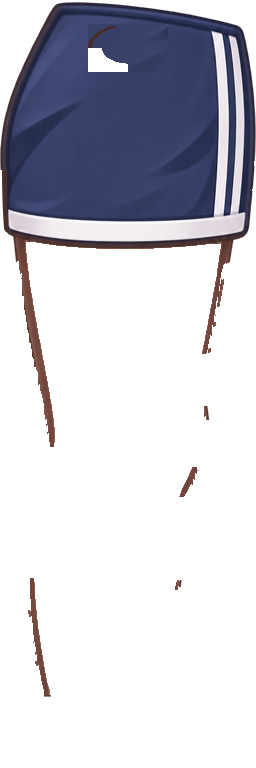
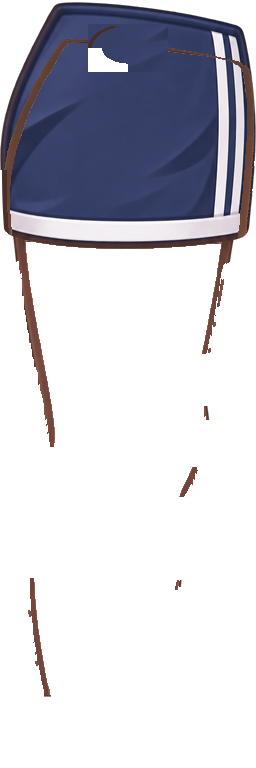
fix: 달리기 상의 떨어진 조각·hoodie 등 외곽선·jogger 끈 끝·하의 다리 외곽선을 정리한다 [S15P31A207-300]
- 달리기 상의 몸통·팔 레이어에서 본체와 떨어진 1000px 미만 덩어리(맨몸 팔 외곽선 조각)를 지운다: singlet 어깨 뒤 곡선, hoodie 목 획.
  singlet 달리기 팔은 소매가 없어 비므로 4번 1% 이상에서 뺀다(spec.EMPTY_RUN_ARM_KEYS).
- hoodie 달리기 몸통 등 쪽 가장자리 4px을 짙은 외곽선으로 칠한다(등판 외곽선 없음).
- jogger 달리기 다리 허리끈 끝(엉덩이 뒤 짙은 점)을 천 색으로 바꾼다.
- 맨몸 다리 외곽선 입히기를 모든 하의로 넓힌다(cargo 주머니 가장자리 톱니).

Changed region(s): [[0.0, 0.0312, 0.3438, 0.3125], [0.9062, 0.0625, 1.0, 0.3125], [0.6562, 0.0625, 0.8125, 0.0938]]

diff --git a/android/core/avatar/src/test/kotlin/com/a207/runkk/app/core/avatar/OutfitCompositeTest.kt b/android/core/avatar/src/test/kotlin/com/a207/runkk/app/core/avatar/OutfitCompositeTest.kt
@@ -80,9 +80,12 @@ class OutfitCompositeTest {
                     OutfitPart.BOTTOM -> AvatarOutfit(bottom = id)
                     OutfitPart.SHOES -> AvatarOutfit(shoes = id)
                 }
-                OutfitSlot.entries.filter { part in it.parts }.forEach { slot ->
-                    assertToneOnlyOnBody(slot, AvatarGender.FEMALE, outfit, "${keys[id]} ${slot.fileName}")
-                }
+                // 소매 없는 상의의 달리기 팔은 비어 있다(파이프라인 spec.EMPTY_RUN_ARM_KEYS, 판정 round3)
+                OutfitSlot.entries.filter { part in it.parts }
+                    .filterNot { keys[id] == "top_lime_singlet" && it == OutfitSlot.RUN_ARM }
+                    .forEach { slot ->
+                        assertToneOnlyOnBody(slot, AvatarGender.FEMALE, outfit, "${keys[id]} ${slot.fileName}")
+                    }
             }
         }
     }

diff --git a/android/core/avatar/src/test/kotlin/com/a207/runkk/app/core/avatar/OutfitAssetSpecTest.kt b/android/core/avatar/src/test/kotlin/com/a207/runkk/app/core/avatar/OutfitAssetSpecTest.kt
@@ -78,7 +78,9 @@ class OutfitAssetSpecTest {
                 check(on(allowed, x, y)) { "3번 금지 영역 ($x, $y) ${file.path} $gender" }
             }
         }
-        assertTrue(drawn >= image.width * image.height / 100, "4번 1% 이상 ${file.path}")
+        // 소매 없는 상의의 달리기 팔은 비어 있다(파이프라인 spec.EMPTY_RUN_ARM_KEYS, 판정 round3)
+        val emptyOk = file.parentFile?.name == "top_lime_singlet" && "run_arm" in file.name
+        assertTrue(emptyOk || drawn >= image.width * image.height / 100, "4번 1% 이상 ${file.path}")
         listOf(image, allowed, uv).forEach(Bitmap::recycle)
     }
 

diff --git a/android/core/avatar/tools/outfit-pipeline/outfit_pipeline/run.py b/android/core/avatar/tools/outfit-pipeline/outfit_pipeline/run.py
@@ -1,0 +1,115 @@
+"""달리기(옆모습) 옷 레이어 마무리(판정 round3 달리기 묶음).
+
+- [drop_loose_pieces]: 옷 본체와 떨어진 작은 덩어리를 지운다. singlet 달리기 팔 레이어에 맨몸 팔 외곽선 조각이
+  세로 선으로 딸려 와 어깨 뒤에 짙은 곡선으로 떠 보였고, hoodie 달리기 몸통 위 끝에도 떨어진 획이 목 곡선으로 보였다.
+- [outline_back]: hoodie 달리기 몸통 등 쪽 가장자리 [EDGE_PX]px 가운데 아직 짙지 않은 곳을 짙은 갈색으로 칠한다. 등판
+  가장자리가 옅어 외곽선이 없어 보였다(달리기 몸통 메시는 옷 가장자리까지 보인다: 픽셀 좌표 부호 렌더 실측).
+- [clean_cord]: jogger 달리기 다리의 허리끈 끝(텍스처 왼쪽 위)이 엉덩이 뒤에 짙은 점으로 떠 보여, 그 칸의 끈 픽셀을 이웃 천 색으로 바꾼다.
+"""
+
+from __future__ import annotations
+
+import numpy as np
+from PIL import Image, ImageFilter
+
+SOLID = 128
+PIECE = 1000
+BACK_KEYS = ("top_winter_hoodie",)
+EDGE_PX = 4
+EDGE_INK = 75  # 이보다 어두운 가장자리는 이미 외곽선
+OUTLINE = (66, 46, 40)
+CORD_BOX = {"bottom_jogger_pants": (0, 95, 30, 155)}  # 허리끈 끝(갈색·금속) 칸(x0, y0, x1, y1)
+
+
+def _morph(mask: np.ndarray, *filters: ImageFilter.Filter) -> np.ndarray:
+    image = Image.fromarray((mask * 255).astype(np.uint8))
+    for f in filters:
+        image = image.filter(f)
+    return np.array(image) > 0
+
+
+def drop_loose_pieces(layer: Image.Image) -> tuple[Image.Image, int]:
+    """옷 본체와 떨어진 작은 덩어리(8방향, [PIECE]px 미만)를 지운다. 달리기 상의 레이어는 본체 하나(5만 픽셀 이상)이고, 그보다 작은
+    덩어리는 딸려 온 맨몸 외곽선 조각·획이다(singlet 달리기 팔은 소매가 없어 조각뿐이다). (레이어, 지운 픽셀 수)."""
+    from outfit_pipeline.build import _components
+
+    array = np.array(layer.convert("RGBA"))
+    width = array.shape[1]
+    removed = 0
+    for flat in _components(array[..., 3] > 0):
+        if len(flat) < PIECE:
+            ys, xs = np.divmod(np.array(flat), width)
+            array[ys, xs] = 0
+            removed += len(flat)
+    return Image.fromarray(array, "RGBA"), removed
+
+
+def outline_back(layer: Image.Image, key: str) -> tuple[Image.Image, int]:
+    """[BACK_KEYS] 상의의 달리기 몸통: 행마다 왼쪽(등) 첫 불투명 픽셀부터 [EDGE_PX]px 가운데 밝기 [EDGE_INK] 이상을 짙은 갈색으로 칠한다
+    (hoodie 등판 가장자리가 옅어 외곽선이 없어 보였다. 다른 상의는 등 외곽선이 이미 짙다)."""
+    if key not in BACK_KEYS:
+        return layer, 0
+    array = np.array(layer.convert("RGBA")).astype(np.float64)
+    solid = array[..., 3] >= SOLID
+    changed = 0
+    for y in range(array.shape[0]):
+        xs = np.nonzero(solid[y])[0]
+        if len(xs) == 0:
+            continue
+        band = slice(xs.min(), xs.min() + EDGE_PX)
+        light = solid[y, band] & (array[y, band, :3].mean(axis=-1) >= EDGE_INK)
+        row = array[y, band]
+        row[light, :3] = row[light, :3] * 0.2 + np.array(OUTLINE) * 0.8
+        changed += int(light.sum())
+    return Image.fromarray(array.round().clip(0, 255).astype(np.uint8), "RGBA"), changed
+
+
+def clean_cord(layer: Image.Image, key: str) -> Image.Image:
+    """[CORD_BOX]의 칸에서 천(무채색 회색)이 아닌 픽셀(허리끈·끈 끝 금속)을 이웃 천 색으로 바꾼다. 칸이 없는 하의는 그대로."""
+    box = CORD_BOX.get(key)
+    if box is None:
+        return layer
+    array = np.array(layer.convert("RGBA")).astype(np.float64)
+    x0, y0, x1, y1 = box
+    rgb = array[..., :3]
+    spread = rgb.max(axis=-1) - rgb.min(axis=-1)
+    lum = rgb.mean(axis=-1)
+    fabric = (array[..., 3] >= SOLID) & (spread < 14) & (lum > 40) & (lum < 130)
+    ink = lum < 65  # 외곽선(맨몸 다리 외곽선 색)은 끈이 아니다
+    target = np.zeros(fabric.shape, bool)
+    target[y0:y1, x0:x1] = (array[y0:y1, x0:x1, 3] >= SOLID) & ~fabric[y0:y1, x0:x1] & ~ink[y0:y1, x0:x1]
+    known = fabric | ~(array[..., 3] >= SOLID)
+    known &= ~target
+    todo = target.copy()
+    while todo.any():
+        grown = []
+        for y, x in zip(*np.nonzero(todo), strict=True):
+            around = [
+                array[ny, nx, :3]
+                for ny, nx in ((y - 1, x), (y + 1, x), (y, x - 1), (y, x + 1))
+                if 0 <= ny < known.shape[0] and 0 <= nx < known.shape[1] and known[ny, nx] and fabric[ny, nx]
+            ]
+            if around:
+                grown.append((y, x, np.mean(around, axis=0)))
+        if not grown:
+            break
+        for y, x, color in grown:
+            array[y, x, :3] = color
+            known[y, x] = True
+            fabric[y, x] = True
+            todo[y, x] = False
+    return Image.fromarray(array.round().clip(0, 255).astype(np.uint8), "RGBA")
+
+
+def finish_run_layer(layer: Image.Image, key: str, part: str, slot: str, leg: Image.Image | None = None) -> Image.Image:
+    """달리기 상의·하의 레이어 마무리(판정 round3): 상의 몸통·팔은 떨어진 조각을 지우고 몸통은 등 외곽선, 하의 다리는 허리끈 끝을 정리한
+    뒤 맨몸 다리 외곽선을 다시 입힌다([leg] = 맨몸 달리기 다리, outfit_pipeline.hip.finish_run_leg)."""
+    if part == "TOP" and slot in ("run_body", "run_arm"):
+        layer, _ = drop_loose_pieces(layer)
+        if slot == "run_body":
+            layer, _ = outline_back(layer, key)
+    elif part == "BOTTOM" and slot == "run_leg" and key in CORD_BOX:
+        from outfit_pipeline.hip import finish_run_leg
+
+        layer = finish_run_leg(clean_cord(layer, key), leg)
+    return layer

diff --git a/android/core/avatar/tools/outfit-pipeline/tests/test_run.py b/android/core/avatar/tools/outfit-pipeline/tests/test_run.py
@@ -1,0 +1,47 @@
+"""달리기 옷 레이어 마무리 시험(판정 round3 달리기 묶음)."""
+
+from __future__ import annotations
+
+import numpy as np
+import pytest
+from PIL import Image
+
+from outfit_pipeline import spec
+from outfit_pipeline.cli import OUTFITS
+from outfit_pipeline.run import clean_cord, drop_loose_pieces, finish_run_layer, outline_back
+
+
+def test_loose_pieces_apart_from_the_garment_are_dropped() -> None:
+    layer = np.zeros((300, 256, 4), np.uint8)
+    layer[50:250, 40:220] = (120, 120, 120, 255)  # 본체
+    layer[10:40, 5:8] = (60, 40, 35, 255)  # 떨어진 획
+    out, removed = drop_loose_pieces(Image.fromarray(layer, "RGBA"))
+    assert removed == 90 and np.array(out)[20, 6, 3] == 0 and np.array(out)[100, 100, 3] == 255
+
+
+def test_hoodie_back_edge_gets_a_dark_outline_and_others_stay() -> None:
+    layer = np.zeros((300, 256, 4), np.uint8)
+    layer[50:250, 40:220] = (150, 145, 140, 255)
+    image = Image.fromarray(layer, "RGBA")
+    out = np.array(outline_back(image, "top_winter_hoodie")[0])
+    assert out[100, 41, :3].mean() < 90 and out[100, 60, :3].mean() > 130 and out[100, 218, :3].mean() > 130
+    assert np.array_equal(np.array(outline_back(image, "base_top")[0]), layer)
+
+
+def test_jogger_cord_tip_takes_the_fabric_colour() -> None:
+    layer = np.zeros((768, 256, 4), np.uint8)
+    layer[0:700, 0:220] = (85, 85, 92, 255)  # 회색 천
+    layer[110:140, 6:16] = (120, 80, 50, 255)  # 갈색 끈 끝
+    out = np.array(clean_cord(Image.fromarray(layer, "RGBA"), "bottom_jogger_pants"))
+    assert np.abs(out[125, 10, :3].astype(int) - [85, 85, 92]).max() <= 2
+
+
+@pytest.mark.parametrize("key", spec.LEGACY_KEYS["TOP"])
+def test_committed_run_tops_are_finished(key: str) -> None:
+    for slot in ("run_body", "run_arm"):
+        layer = Image.open(OUTFITS / key / f"female_{slot}{spec.EXTENSION}")
+        again = np.array(finish_run_layer(layer, key, "TOP", slot))
+        before = np.array(layer.convert("RGBA"))
+        assert np.array_equal(before[..., 3], again[..., 3]), slot
+        visible = before[..., 3] > 0
+        assert np.abs(before[visible, :3].astype(int) - again[visible, :3]).max(initial=0) <= 30, slot

diff --git a/android/core/avatar/tools/outfit-pipeline/outfit_pipeline/hip.py b/android/core/avatar/tools/outfit-pipeline/outfit_pipeline/hip.py
@@ -183,18 +183,17 @@ def retarget_rml(text: str) -> str:
 
 LEG_EDGE_PX = 7  # 맨몸 다리 외곽선으로 보는 가장자리 폭
 LEG_DARK = 110
-LONG_ROW = 500  # 천이 넓게(40px 이상) 이 행 아래까지 있으면 긴 하의
 
 
 def outline_leg_edge(layer: Image.Image, body: Image.Image) -> Image.Image:
-    """긴 하의 달리기 다리(판정 round3: wide·jogger 외곽선 없음, leggings 무릎 비침): 다리 메시는 맨몸 다리 실루엣 모양이라 하의가 그보다
+    """하의 달리기 다리(판정 round3: wide·jogger 외곽선 없음, leggings 무릎 비침, cargo 주머니 가장자리 톱니): 다리 메시는 맨몸 다리 실루엣 모양이라 하의가 그보다
     넓은 곳은 화면에 나오지 않고, 실루엣 가장자리에는 하의 천이 나온다(하의 자체 외곽선은 메시 밖이라 안 보였다). 하의가 있는 행(밑단 위)에서
     맨몸 다리 외곽선 픽셀(실루엣 가장자리 [LEG_EDGE_PX]px 안의 짙은 픽셀) 위의 하의 픽셀을 그 외곽선 색으로 바꿔 하의 외곽선으로 쓴다."""
     array = np.array(layer.convert("RGBA"))
     skin = np.array(body.convert("RGBA"))
     garment = array[..., 3] >= 128
     rows = np.nonzero(garment.sum(axis=1) >= 40)[0]
-    if len(rows) == 0 or rows.max() < LONG_ROW:
+    if len(rows) == 0:
         return layer
     solid = skin[..., 3] >= 128
     from PIL import ImageFilter
@@ -209,7 +208,7 @@ def outline_leg_edge(layer: Image.Image, body: Image.Image) -> Image.Image:
 
 
 def finish_run_leg(layer: Image.Image, body: Image.Image | None) -> Image.Image:
-    """달리기 다리 하의 레이어 마무리(판정 round1~3 C): 엉덩이 잇기 칸(등 아래 모서리 깎음), 엉덩이 뒷면 둥근 모서리, 긴 하의는 맨몸 다리
+    """달리기 다리 하의 레이어 마무리(판정 round1~3 C): 엉덩이 잇기 칸(등 아래 모서리 깎음), 엉덩이 뒷면 둥근 모서리, 맨몸 다리
     외곽선."""
     from outfit_pipeline.body import close_seams
 

diff --git a/android/core/avatar/tools/outfit-pipeline/outfit_pipeline/build.py b/android/core/avatar/tools/outfit-pipeline/outfit_pipeline/build.py
@@ -36,6 +36,7 @@ from outfit_pipeline.check import Problem, check_bundle, hole_area, template_for
 from outfit_pipeline.hip import carve_hip, finish_run_leg, paint_hip, round_hip_corner
 from outfit_pipeline.holes import fill_garment_holes
 from outfit_pipeline.masks import load_mask
+from outfit_pipeline.run import finish_run_layer
 from outfit_pipeline.shoes import drop_ghost, drop_pieces
 from outfit_pipeline.skin import strip_skin
 
@@ -364,6 +365,10 @@ def _write_bundle(source: Path, target: Path, masks_dir: Path, asset_key: str, p
             layer = tidy_bottom(layer, target.parent / spec.BODY_FOLDER, wisps, match.group(2) == "stand")
         if part == "SHOES":
             layer, _ = drop_pieces(layer)
+        run_leg = target.parent / spec.BODY_FOLDER / f"female_run_leg{spec.EXTENSION}"
+        layer = finish_run_layer(
+            layer, asset_key, part, match.group(2), Image.open(run_leg) if run_leg.is_file() else None
+        )
         if asset_key in spec.SHOE_GHOST_KEYS:
             # 생성 그림자 잔상(판정 round1 D). 되풀이하면 더 깎이므로 원본에서 만들 때 한 번만 지운다(clean-body에서는 하지 않는다)
             layer, _ = drop_ghost(layer)
@@ -598,6 +603,10 @@ def clean_assets(outfits_dir: Path, raw_dir: Path, masks_dir: Path) -> dict[str,
                 layer = tidy_bottom(layer, folder, wisps, path.stem.split("_", 1)[1] == "stand")
             if part == "SHOES":
                 layer, _ = drop_pieces(layer)
+            run_leg = folder / f"female_run_leg{spec.EXTENSION}"
+            layer = finish_run_layer(
+                layer, bundle.name, part, path.stem.split("_", 1)[1], Image.open(run_leg) if run_leg.is_file() else None
+            )
             stand_body = folder / f"female_stand{spec.EXTENSION}"
             if part == "TOP" and path.stem.split("_", 1)[1] == "stand" and stand_body.is_file():
                 layer, _ = meet_torso_outline(layer, Image.open(stand_body))

diff --git a/android/core/avatar/tools/outfit-pipeline/outfit_pipeline/check.py b/android/core/avatar/tools/outfit-pipeline/outfit_pipeline/check.py
@@ -107,7 +107,8 @@ def check_layer(
     if outside:
         problems.append(Problem(4, str(path), f"alpha outside UV area at {outside}"))
     coverage = sum(alpha.histogram()[1:]) / (slot.width * slot.height)
-    if coverage < spec.MIN_COVERAGE:
+    empty_ok = path.parent.name in spec.EMPTY_RUN_ARM_KEYS and "run_arm" in path.name
+    if coverage < spec.MIN_COVERAGE and not empty_ok:
         problems.append(Problem(4, str(path), f"coverage {coverage:.4f} < {spec.MIN_COVERAGE}"))
     # 9번: 옷 레이어에 드러난 맨살이 없다(피부는 맨몸 바탕에서만 와 러닝량 톤이 걸린다, [임시:D-성-174]).
     skin = count_exposed(image)

diff --git a/android/core/avatar/tools/outfit-pipeline/outfit_pipeline/spec.py b/android/core/avatar/tools/outfit-pipeline/outfit_pipeline/spec.py
@@ -197,3 +197,6 @@ def save_webp(image, path) -> None:
 # 생성 그림의 그림자·배경이 신발 외곽선 밖에 불투명한 잔상 띠로 남은 신발(판정 round1 D, `outfit_pipeline.shoes`). 외곽선이 부드러운
 # 다른 신발에 쓰면 외곽선까지 지워져 확인된 것만 둔다.
 SHOE_GHOST_KEYS = ("shoes_high_top", "shoes_lime_runner")
+
+# 소매가 없어 달리기 팔 레이어가 비어 있는 상의(판정 round3: 딸려 온 맨몸 팔 외곽선 조각을 지우면 비는 게 맞다). 4번 1% 이상에서 뺀다.
+EMPTY_RUN_ARM_KEYS = ("top_lime_singlet",)

diff --git a/android/core/avatar/OUTFIT_SPEC.md b/android/core/avatar/OUTFIT_SPEC.md
@@ -51,7 +51,8 @@ riv 네 파일(`res/raw`, 승인본 SHA 고정, 읽기만)의 아트보드는 80
 | 신발 기준점 | 정면 발 칸 (96,627)-(257,768)·(260,627)-(421,768), 양말 위 끝은 y 616 이하로 올리지 않는다 |
 | 신발 잔상·조각 (판정 round1 D) | 신발 레이어에서 신발과 떨어진 작은 덩어리(8방향 200px 미만, ankle_boots 발목 위 짧은 획)는 없다. 생성 그림의 그림자·배경이 신발 외곽선 밖에 불투명한 띠로 남은 신발(`spec.SHOE_GHOST_KEYS`: high_top 검은 잔상, lime_runner 적갈색 테두리)은 원본에서 만들 때 그 띠를 지운다(`outfit_pipeline/shoes.py`: 행마다 바깥에서 들어와 이웃 색 차 35 이하로 6~22px 이어지다 큰 색 변화(신발 외곽선)에서 멈추는 밝지 않은 띠, 5x5 닫기·7x7 열기로 다듬음). 외곽선이 부드러운 다른 신발에 쓰면 외곽선까지 지워져 확인된 신발만 둔다 |
 | 칼라·후드 안 (판정 round1 B) | 서기 맨몸 아틀라스는 얼굴 레이어 위에 그려져 얼굴 목은 아틀라스가 빈 곳(어깨선 U자 안)으로만 보인다. 생성 단계가 긴소매(finisher, hoodie, cherry_vest, windbreaker)의 목·가슴 위 칸(x 196~316, y 0~48)을 피부 판정 칸으로 써서 후드 안감·칼라를 직사각형으로 지웠고, 그 밑 맨몸 가슴 피부가 곧은 모서리의 피부 사각형으로 비쳤다. 상의 레이어 위 60행에서 같은 행 왼쪽·오른쪽에 천이 있는 투명 픽셀을 이웃 천 색으로 메우고(`holes.fill_collar`), 목 기둥(x 217~295) 가운데 맨몸도 빈 곳만 비워 두며 그 둘레 2px은 안감 그늘로 조금 어둡게 한다 |
-| 달리기 엉덩이 잇기·다리 실루엣 (판정 round1~3 C) | 달리기 riv의 Image 「Cloth textured hip connection」(타원 메시)은 run_leg 텍스처 가운데 조각(x 88~168, y 160~208)을 써서 엉덩이 뒷면에 외곽선이 없었고 같은 칸을 앞 다리 메시도 허벅지에 쓴다. 앱은 읽은 riv 바이트에서 그 꼭짓점 v만 136/768만큼 위로 옮겨(`RivHipConnection`, 파일은 승인본 그대로) 다리 메시가 화면에 쓰지 않는 칸(y 24~72)을 쓰게 하고, 판정 렌더는 Rive 원본의 같은 꼭짓점을 옮긴다(`retarget_rml`). 다리 메시는 맨몸 다리 실루엣 모양이라(16x16 칸과 픽셀 좌표 부호 렌더로 실측: 텍스처 행마다 화면 뒷면 경계가 맨몸 다리 왼쪽 끝과 같다) 하의가 맨몸 다리보다 넓은 곳은 화면에 나오지 않는다. 그래서 하의·맨몸 달리기 다리 레이어(`hip.finish_run_leg`)는 (1) 엉덩이 잇기 칸에 원래 조각을 옮기고 타원의 등 아래 사분면 바깥((x/rx)²+(y/ry)² > 0.42)을 투명하게 깎아(화면 블록의 등 아래 모서리를 없앤다, 깎은 경계에 외곽선을 그리면 옷 안쪽 호로 떠 보였다) 등 쪽 둘레(150~250도) 4px만 외곽선으로 칠하고, (2) 다리 텍스처 y 170~265의 뒷면을 x 2→12 사분 타원 곡선으로 깎아(곧은 뒷면이 y 264에서 10px 꺾이던 모서리) 새 가장자리 5px을 맨몸 외곽선 색으로 칠하고, (3) 긴 하의는 맨몸 다리 외곽선(실루엣 가장자리 7px 안 짙은 픽셀) 위 하의 픽셀을 그 외곽선 색으로 바꾼다(wide·jogger 외곽선, leggings 무릎 비침). 16번 구멍 검사는 엉덩이 잇기 칸을, 17번 달리기 다리 외곽선 기준은 그 칸과 깎은 뒷면(y 170~265, x < 24)을 뺀다 |
+| 달리기 엉덩이 잇기·다리 실루엣 (판정 round1~3 C) | 달리기 riv의 Image 「Cloth textured hip connection」(타원 메시)은 run_leg 텍스처 가운데 조각(x 88~168, y 160~208)을 써서 엉덩이 뒷면에 외곽선이 없었고 같은 칸을 앞 다리 메시도 허벅지에 쓴다. 앱은 읽은 riv 바이트에서 그 꼭짓점 v만 136/768만큼 위로 옮겨(`RivHipConnection`, 파일은 승인본 그대로) 다리 메시가 화면에 쓰지 않는 칸(y 24~72)을 쓰게 하고, 판정 렌더는 Rive 원본의 같은 꼭짓점을 옮긴다(`retarget_rml`). 다리 메시는 맨몸 다리 실루엣 모양이라(16x16 칸과 픽셀 좌표 부호 렌더로 실측: 텍스처 행마다 화면 뒷면 경계가 맨몸 다리 왼쪽 끝과 같다) 하의가 맨몸 다리보다 넓은 곳은 화면에 나오지 않는다. 그래서 하의·맨몸 달리기 다리 레이어(`hip.finish_run_leg`)는 (1) 엉덩이 잇기 칸에 원래 조각을 옮기고 타원의 등 아래 사분면 바깥((x/rx)²+(y/ry)² > 0.42)을 투명하게 깎아(화면 블록의 등 아래 모서리를 없앤다, 깎은 경계에 외곽선을 그리면 옷 안쪽 호로 떠 보였다) 등 쪽 둘레(150~250도) 4px만 외곽선으로 칠하고, (2) 다리 텍스처 y 170~265의 뒷면을 x 2→12 사분 타원 곡선으로 깎아(곧은 뒷면이 y 264에서 10px 꺾이던 모서리) 새 가장자리 5px을 맨몸 외곽선 색으로 칠하고, (3) 하의는 맨몸 다리 외곽선(실루엣 가장자리 7px 안 짙은 픽셀) 위 하의 픽셀을 그 외곽선 색으로 바꾼다(wide·jogger 외곽선, leggings 무릎 비침). 16번 구멍 검사는 엉덩이 잇기 칸을, 17번 달리기 다리 외곽선 기준은 그 칸과 깎은 뒷면(y 170~265, x < 24)을 뺀다 |
+| 달리기 상의·하의 마무리 (판정 round3) | 달리기 상의 몸통·팔 레이어에는 본체와 떨어진 1000px 미만 덩어리가 없다(맨몸 팔 외곽선 조각이 singlet 어깨 뒤 곡선, hoodie 목 곡선으로 떠 보였다). hoodie 달리기 몸통은 행마다 등 쪽 첫 4px 가운데 밝은 곳을 짙은 갈색으로 칠한다(등판 외곽선이 옅었다. 달리기 몸통 메시는 옷 가장자리까지 보인다). jogger 달리기 다리는 허리끈 끝(x 0~29, y 95~154)의 끈·금속 픽셀을 이웃 천 색으로 바꾼다(엉덩이 뒤 짙은 점). `outfit_pipeline/run.py` |
 | 하의 길이 | 달리기 다리(`run_leg`)의 하의는 기본 반바지 밑단(y 약 250)보다 짧게 끝나지 않는다(맨몸 허벅지의 이음선이 그 위에 있다) |
 | 품질 | 코랄 집업 후드(`top_cherry_vest`) 기준: 외곽선 2px(옷 기본색의 어두운 톤, 검정 아님), 음영 3단, 주름은 관절·지퍼·밑단, 광택·질감 무늬 없음 |
 
